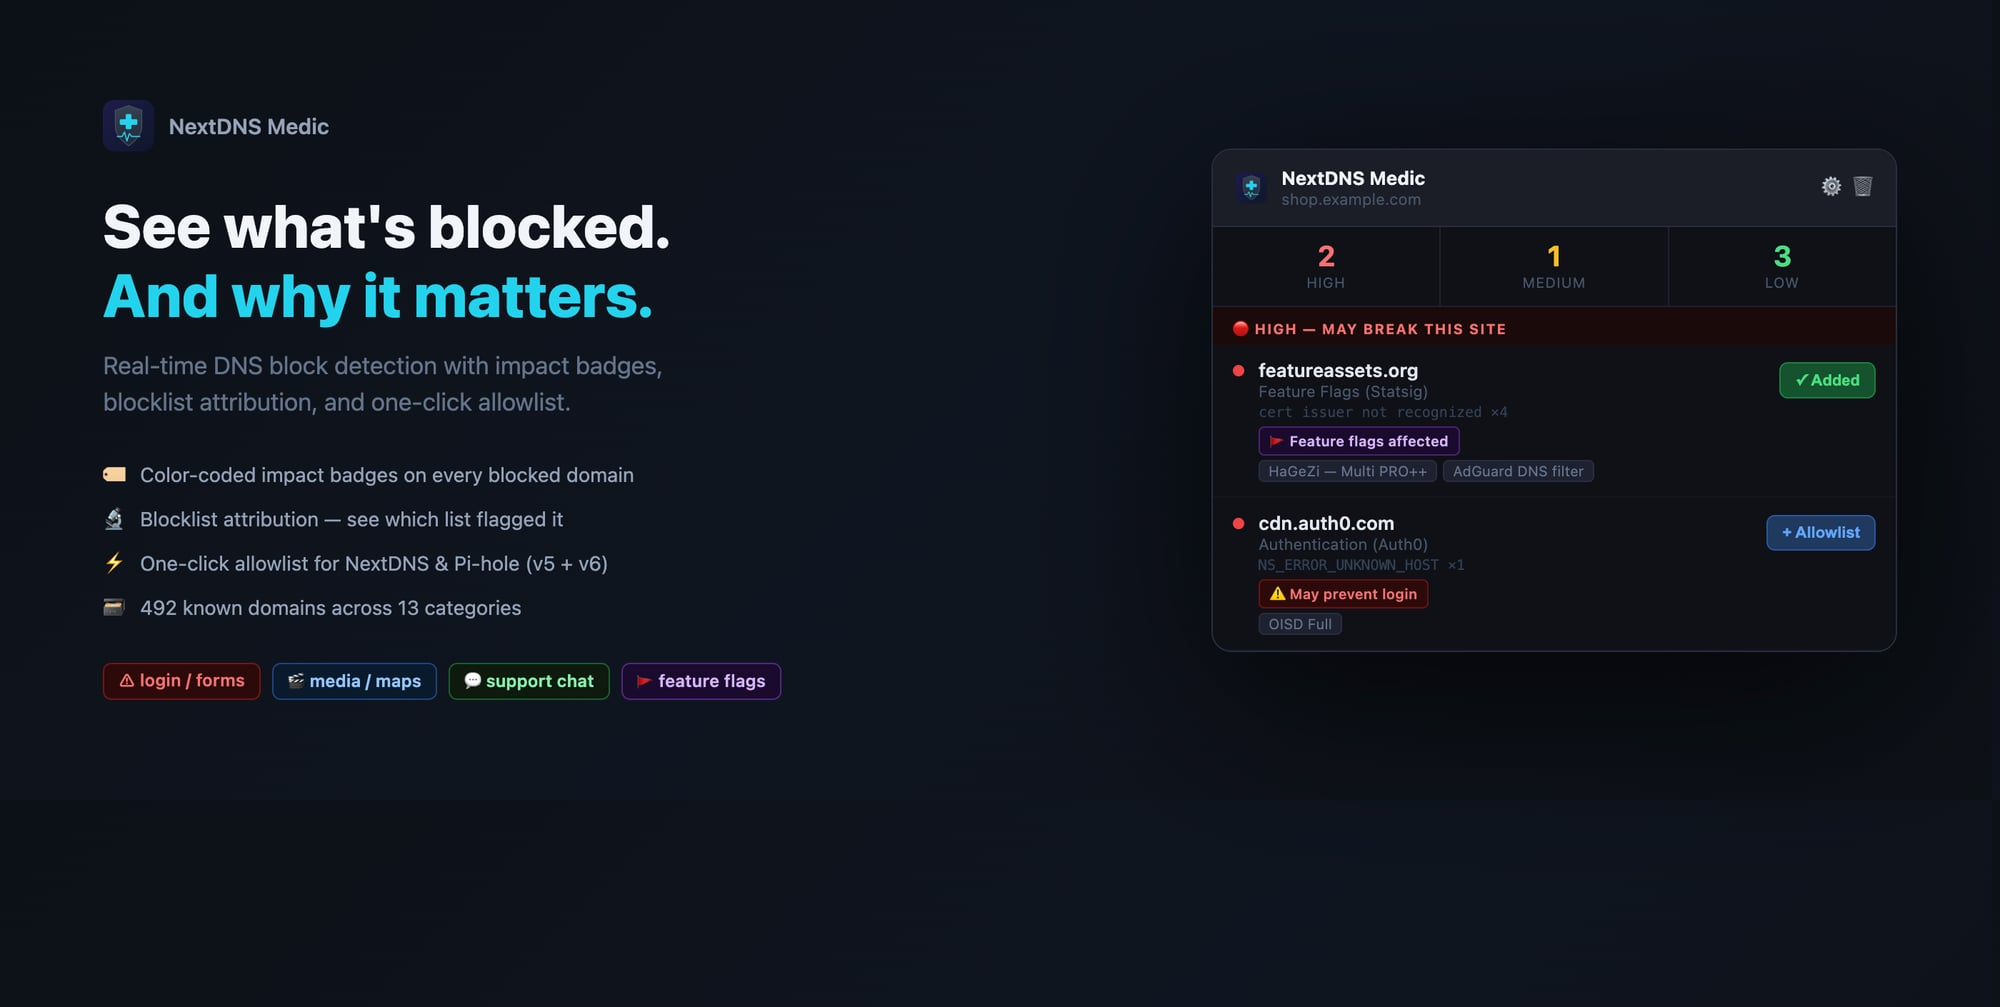
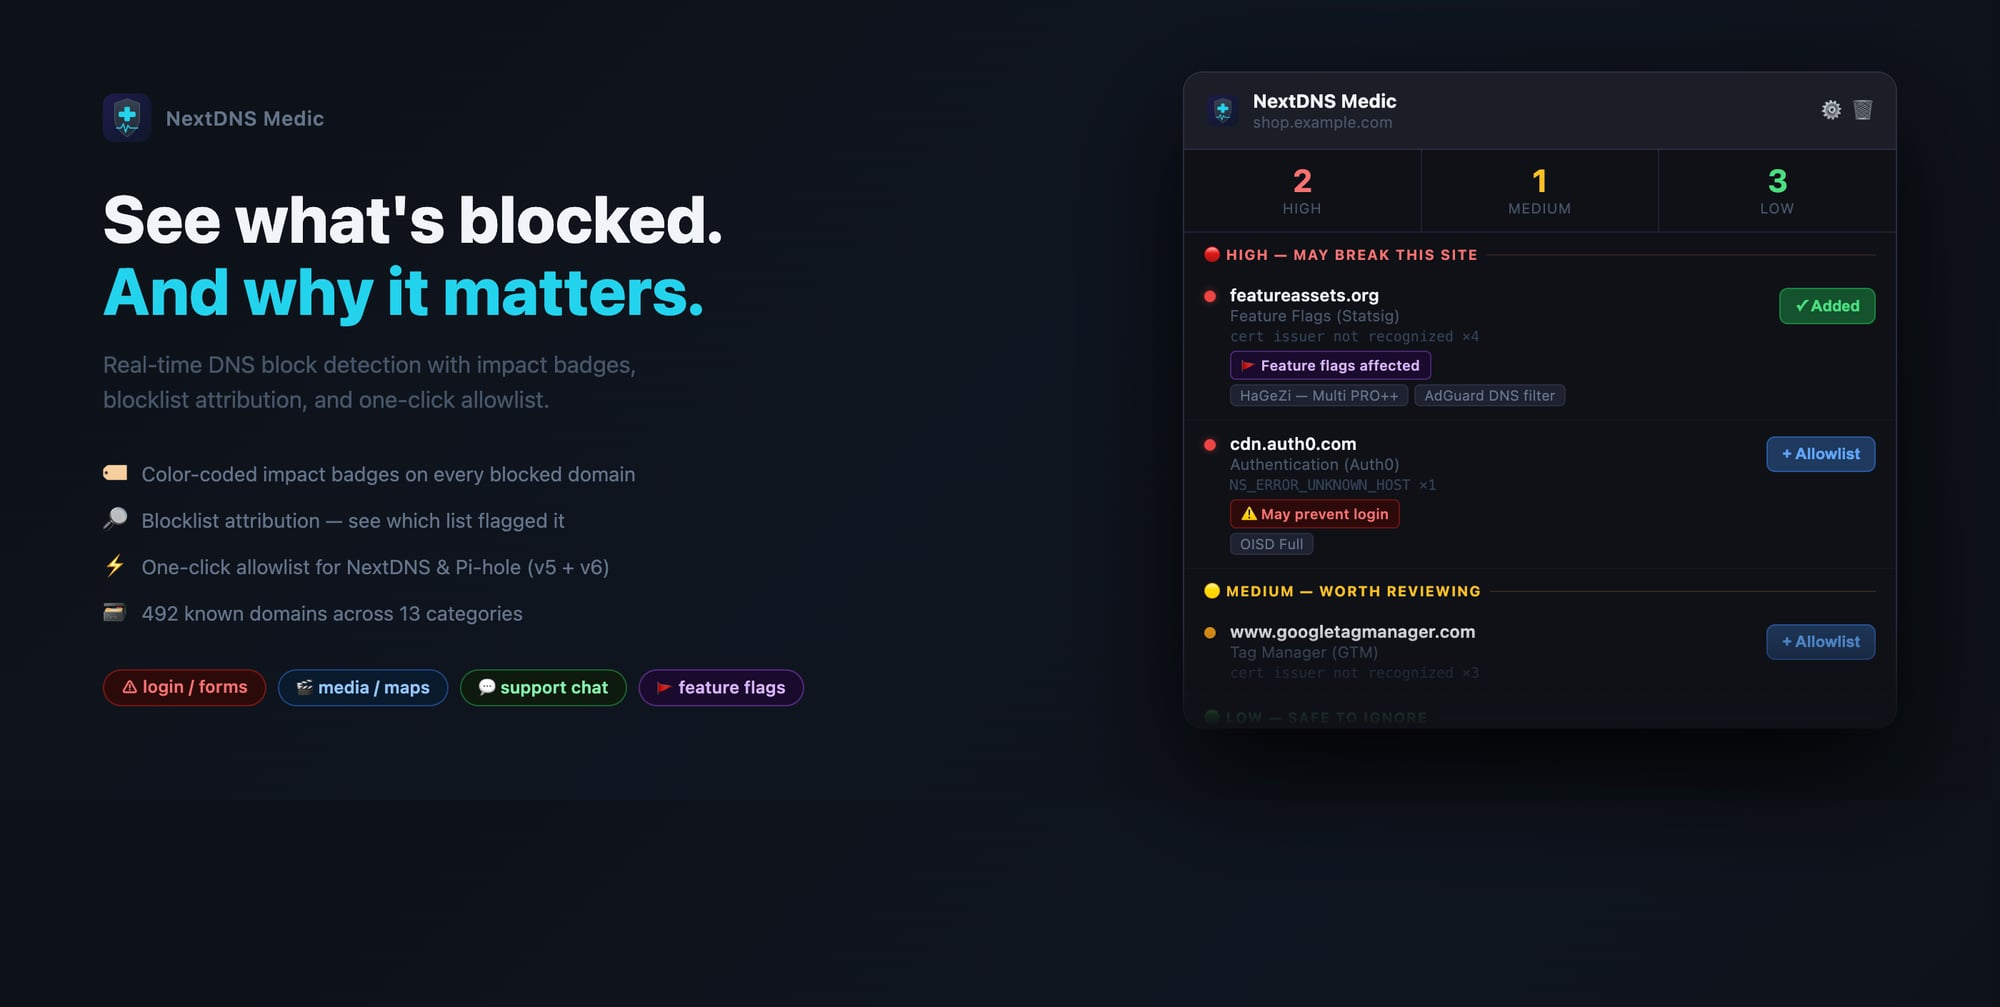
fix: marquee now fills full canvas height — popup with 4 rows + fade overlay

diff --git a/store/marquee-render.html b/store/marquee-render.html
@@ -1,5 +1,5 @@
 <!DOCTYPE html>
-<html>
+<html lang="en">
 <head>
 <meta charset="UTF-8">
 <style>
@@ -13,185 +13,182 @@ body {
   overflow:hidden;
 }
 
-/* Left — copy */
-.left {
-  flex: 0 0 520px;
-  display: flex;
-  flex-direction: column;
-  gap: 0;
-}
-.brand {
-  display:flex; align-items:center; gap:10px;
-  margin-bottom: 28px;
-}
-.brand img { width:36px; height:36px; border-radius:8px; }
-.brand-name { font-size:15px; font-weight:600; color:#94a3b8; }
-
-.headline { font-size:42px; font-weight:800; line-height:1.15; color:#f1f5f9; margin-bottom:12px; }
+/* ── Left ── */
+.left { flex:0 0 540px; display:flex; flex-direction:column; gap:0; }
+.brand { display:flex; align-items:center; gap:10px; margin-bottom:28px; }
+.brand img { width:34px; height:34px; border-radius:8px; }
+.brand-name { font-size:14px; font-weight:600; color:#64748b; letter-spacing:.03em; }
+.headline { font-size:46px; font-weight:800; line-height:1.1; color:#f1f5f9; margin-bottom:14px; }
 .headline em { font-style:normal; color:#22d3ee; }
-.subline { font-size:17px; color:#64748b; line-height:1.5; margin-bottom:28px; }
+.subline { font-size:16px; color:#475569; line-height:1.55; margin-bottom:28px; }
+.features { display:flex; flex-direction:column; gap:10px; margin-bottom:28px; }
+.fi { display:flex; align-items:center; gap:10px; font-size:14px; color:#64748b; }
+.fi-icon { font-size:17px; flex-shrink:0; }
+.badges { display:flex; flex-wrap:wrap; gap:8px; }
+.badge { font-size:12px; font-weight:600; padding:4px 12px; border-radius:20px; }
+.b-red    { background:#2d0a0a; border:1px solid #dc262666; color:#f87171; }
+.b-blue   { background:#0a1a2d; border:1px solid #3b82f666; color:#93c5fd; }
+.b-green  { background:#0d1a0d; border:1px solid #22c55e66; color:#86efac; }
+.b-purple { background:#1a0a2d; border:1px solid #a855f766; color:#d8b4fe; }
 
-.feature-list {
-  display:flex; flex-direction:column; gap:10px;
-  margin-bottom:28px;
-}
-.feature-item {
-  display:flex; align-items:center; gap:10px;
-  font-size:14px; color:#94a3b8;
-}
-.feature-icon { font-size:16px; flex-shrink:0; }
-
-.badge-row {
-  display:flex; flex-wrap:wrap; gap:8px;
-}
-.badge {
-  font-size:12px; font-weight:600;
-  padding: 4px 10px; border-radius:6px;
-}
-.badge-red    { background:#2d0a0a; border:1px solid #dc262666; color:#f87171; }
-.badge-blue   { background:#0a1a2d; border:1px solid #3b82f666; color:#93c5fd; }
-.badge-green  { background:#0d1a0d; border:1px solid #22c55e66; color:#86efac; }
-.badge-purple { background:#1a0a2d; border:1px solid #a855f766; color:#d8b4fe; }
-
-/* Right — popup mock */
-.popup-wrap {
-  flex: 0 0 480px;
-  filter: drop-shadow(0 32px 64px rgba(0,0,0,0.8));
+/* ── Right popup ── */
+.right {
+  flex:0 0 500px;
+  height:460px;
+  position:relative;
+  border-radius:14px;
+  box-shadow: 0 32px 80px rgba(0,0,0,0.9);
+  overflow:hidden;
 }
 .popup {
   background:#0f1117;
-  border-radius:14px;
   border:1px solid #2a2d3e;
-  overflow:hidden;
-  font-size:13px;
+  border-radius:14px;
   color:#e2e8f0;
+  font-size:13px;
+  height:100%;
+  overflow:hidden;
 }
-.popup-header {
+.ph {
   background:#1a1d27;
   padding:12px 16px;
   display:flex; align-items:center; justify-content:space-between;
   border-bottom:1px solid #2a2d3e;
+  flex-shrink:0;
 }
-.popup-header-left { display:flex; align-items:center; gap:10px; }
-.popup-header img { width:22px; height:22px; border-radius:5px; }
-.popup-title { font-size:13px; font-weight:700; color:#f1f5f9; }
-.popup-sub   { font-size:11px; color:#475569; margin-top:1px; }
-.popup-icons { font-size:14px; color:#475569; display:flex; gap:8px; }
+.ph-left { display:flex; align-items:center; gap:10px; }
+.ph img  { width:22px; height:22px; border-radius:5px; }
+.ph-title { font-size:13px; font-weight:700; color:#f1f5f9; }
+.ph-sub   { font-size:11px; color:#475569; margin-top:1px; }
+.ph-icons { font-size:14px; color:#475569; display:flex; gap:8px; }
 
-.stats {
-  display:flex; border-bottom:1px solid #1e2130;
-}
+.stats { display:flex; border-bottom:1px solid #1e2130; flex-shrink:0; }
 .stat { flex:1; padding:10px 0; text-align:center; }
 .stat:not(:last-child) { border-right:1px solid #1e2130; }
-.stat-num { font-size:20px; font-weight:700; display:block; line-height:1; }
-.stat-label { font-size:10px; color:#475569; text-transform:uppercase; letter-spacing:.05em; }
+.sn { font-size:22px; font-weight:700; display:block; line-height:1; }
+.sl { font-size:10px; color:#475569; text-transform:uppercase; letter-spacing:.05em; }
 
-.section-hdr {
+.shdr {
   font-size:10px; font-weight:700; letter-spacing:.08em;
-  text-transform:uppercase; padding:8px 14px 4px;
+  text-transform:uppercase; padding:8px 14px 5px;
+  display:flex; align-items:center; gap:6px;
+  flex-shrink:0;
 }
-.section-hdr.high { color:#f87171; background:#1a0a0a; }
+.shdr::after { content:""; flex:1; height:1px; background:currentColor; opacity:.15; }
+.shdr.high { color:#f87171; } .shdr.med { color:#fbbf24; } .shdr.low { color:#4ade80; }
 
-.block {
+.brow {
   display:flex; align-items:flex-start; gap:10px;
-  padding:10px 14px;
+  padding:9px 14px;
   border-bottom:1px solid #13161f;
+  flex-shrink:0;
 }
 .dot { width:8px; height:8px; border-radius:50%; flex-shrink:0; margin-top:4px; }
-.dot.high { background:#ef4444; }
-.binfo { flex:1; min-width:0; }
-.bdomain { font-size:13px; font-weight:600; color:#e2e8f0; }
-.blabel  { font-size:11px; color:#475569; margin-top:1px; }
-.bmeta   { font-size:10px; color:#334155; margin-top:2px; font-family:monospace; }
-.impact  { display:inline-block; font-size:10px; font-weight:600; padding:2px 7px; border-radius:4px; margin-top:4px; }
-.impact.purple { background:#1a0a2d; border:1px solid #a855f755; color:#d8b4fe; }
-.impact.red    { background:#2d0a0a; border:1px solid #dc262655; color:#f87171; }
-.blocklist-tags { display:flex; gap:4px; flex-wrap:wrap; margin-top:3px; }
-.bl-tag { font-size:10px; color:#64748b; background:#1e2130; border:1px solid #2a2d3e; border-radius:4px; padding:1px 6px; }
-.allow-btn {
-  font-size:11px; font-weight:600; padding:5px 10px;
-  background:#1e3a5f; border:1px solid #3b82f666; border-radius:6px; color:#60a5fa;
-  white-space:nowrap; flex-shrink:0; margin-top:2px;
-}
-.allow-btn.success {
-  background:#14532d; border-color:#22c55e66; color:#4ade80;
+.dot.H { background:#ef4444; box-shadow:0 0 5px #ef444488; }
+.dot.M { background:#f59e0b; }
+.dot.L { background:#4ade80; }
+.bi { flex:1; min-width:0; }
+.bd { font-size:12px; font-weight:600; color:#f1f5f9; }
+.bl { font-size:11px; color:#475569; margin-top:1px; }
+.bm { font-size:10px; color:#334155; margin-top:2px; font-family:monospace; }
+.ib { display:inline-block; font-size:10px; font-weight:600; padding:2px 7px; border-radius:4px; margin-top:4px; }
+.ib-p { background:#1a0a2d; border:1px solid #a855f755; color:#d8b4fe; }
+.ib-r { background:#2d0a0a; border:1px solid #dc262655; color:#f87171; }
+.bt { display:flex; gap:4px; flex-wrap:wrap; margin-top:3px; }
+.btag { font-size:10px; color:#64748b; background:#1e2130; border:1px solid #2a2d3e; border-radius:4px; padding:1px 6px; }
+.abtn { font-size:11px; font-weight:600; padding:5px 10px; background:#1e3a5f; border:1px solid #3b82f666; border-radius:6px; color:#60a5fa; white-space:nowrap; flex-shrink:0; margin-top:2px; }
+.abtn.ok { background:#14532d; border-color:#22c55e66; color:#4ade80; }
+
+.fade {
+  position:absolute; bottom:0; left:0; right:0; height:80px;
+  background:linear-gradient(transparent, #0f1117);
+  pointer-events:none;
 }
 </style>
 </head>
 <body>
-
 <div class="left">
   <div class="brand">
[1 lines of base64/hex data omitted]
-    <span class="brand-name">NextDNS Medic</span>
+    <img src="{}" /><span class="brand-name">NextDNS Medic</span>
   </div>
-
   <div class="headline">See what's blocked.<br><em>And why it matters.</em></div>
   <div class="subline">Real-time DNS block detection with impact badges,<br>blocklist attribution, and one-click allowlist.</div>
-
-  <div class="feature-list">
-    <div class="feature-item"><span class="feature-icon">🏷</span> Color-coded impact badges on every blocked domain</div>
-    <div class="feature-item"><span class="feature-icon">🔬</span> Blocklist attribution — see which list flagged it</div>
-    <div class="feature-item"><span class="feature-icon">⚡</span> One-click allowlist for NextDNS &amp; Pi-hole (v5 + v6)</div>
-    <div class="feature-item"><span class="feature-icon">🗃</span> 492 known domains across 13 categories</div>
+  <div class="features">
+    <div class="fi"><span class="fi-icon">&#127991;&#65039;</span>Color-coded impact badges on every blocked domain</div>
+    <div class="fi"><span class="fi-icon">&#128270;</span>Blocklist attribution &mdash; see which list flagged it</div>
+    <div class="fi"><span class="fi-icon">&#9889;</span>One-click allowlist for NextDNS &amp; Pi-hole (v5 + v6)</div>
+    <div class="fi"><span class="fi-icon">&#128451;&#65039;</span>492 known domains across 13 categories</div>
   </div>
-
-  <div class="badge-row">
-    <span class="badge badge-red">⚠ login / forms</span>
-    <span class="badge badge-blue">🎬 media / maps</span>
-    <span class="badge badge-green">💬 support chat</span>
-    <span class="badge badge-purple">🚩 feature flags</span>
+  <div class="badges">
+    <span class="badge b-red">&#9888; login / forms</span>
+    <span class="badge b-blue">&#127916; media / maps</span>
+    <span class="badge b-green">&#128172; support chat</span>
+    <span class="badge b-purple">&#128681; feature flags</span>
   </div>
 </div>
 
-<div class="popup-wrap">
+<div class="right">
   <div class="popup">
-    <div class="popup-header">
-      <div class="popup-header-left">
[1 lines of base64/hex data omitted]
-        <div><div class="popup-title">NextDNS Medic</div><div class="popup-sub">shop.example.com</div></div>
-      </div>
-      <div class="popup-icons"><span>⚙</span><span>🗑</span></div>
+    <div class="ph">
+      <div class="ph-left"><img id="icon" /><div><div class="ph-title">NextDNS Medic</div><div class="ph-sub">shop.example.com</div></div></div>
+      <div class="ph-icons"><span>&#9881;&#65039;</span><span>&#128465;&#65039;</span></div>
     </div>
-
     <div class="stats">
-      <div class="stat"><span class="stat-num" style="color:#f87171">2</span><span class="stat-label">High</span></div>
-      <div class="stat"><span class="stat-num" style="color:#fbbf24">1</span><span class="stat-label">Medium</span></div>
-      <div class="stat"><span class="stat-num" style="color:#4ade80">3</span><span class="stat-label">Low</span></div>
+      <div class="stat"><span class="sn" style="color:#f87171">2</span><span class="sl">High</span></div>
+      <div class="stat"><span class="sn" style="color:#fbbf24">1</span><span class="sl">Medium</span></div>
+      <div class="stat"><span class="sn" style="color:#4ade80">3</span><span class="sl">Low</span></div>
     </div>
-
-    <div class="section-hdr high">🔴 High — May break this site</div>
-
-    <div class="block">
-      <div class="dot high"></div>
-      <div class="binfo">
-        <div class="bdomain">featureassets.org</div>
-        <div class="blabel">Feature Flags (Statsig)</div>
-        <div class="bmeta">cert issuer not recognized ×4</div>
-        <span class="impact purple">🚩 Feature flags affected</span>
-        <div class="blocklist-tags">
-          <span class="bl-tag">HaGeZi — Multi PRO++</span>
-          <span class="bl-tag">AdGuard DNS filter</span>
-        </div>
+    <div class="shdr high">&#128308; High &mdash; May break this site</div>
+    <div class="brow">
+      <div class="dot H"></div>
+      <div class="bi">
+        <div class="bd">featureassets.org</div>
+        <div class="bl">Feature Flags (Statsig)</div>
+        <div class="bm">cert issuer not recognized &times;4</div>
+        <span class="ib ib-p">&#128681; Feature flags affected</span>
+        <div class="bt"><span class="btag">HaGeZi &mdash; Multi PRO++</span><span class="btag">AdGuard DNS filter</span></div>
       </div>
-      <button class="allow-btn success">✓ Added</button>
+      <button class="abtn ok">&#10003; Added</button>
     </div>
-
-    <div class="block">
-      <div class="dot high"></div>
-      <div class="binfo">
-        <div class="bdomain">cdn.auth0.com</div>
-        <div class="blabel">Authentication (Auth0)</div>
-        <div class="bmeta">NS_ERROR_UNKNOWN_HOST ×1</div>
-        <span class="impact red">⚠ May prevent login</span>
-        <div class="blocklist-tags">
-          <span class="bl-tag">OISD Full</span>
-        </div>
+    <div class="brow">
+      <div class="dot H"></div>
+      <div class="bi">
+        <div class="bd">cdn.auth0.com</div>
+        <div class="bl">Authentication (Auth0)</div>
+        <div class="bm">NS_ERROR_UNKNOWN_HOST &times;1</div>
+        <span class="ib ib-r">&#9888;&#65039; May prevent login</span>
+        <div class="bt"><span class="btag">OISD Full</span></div>
       </div>
-      <button class="allow-btn">+ Allowlist</button>
+      <button class="abtn">+ Allowlist</button>
+    </div>
+    <div class="shdr med">&#128993; Medium &mdash; Worth reviewing</div>
+    <div class="brow">
+      <div class="dot M"></div>
+      <div class="bi">
+        <div class="bd">www.googletagmanager.com</div>
+        <div class="bl">Tag Manager (GTM)</div>
+        <div class="bm">cert issuer not recognized &times;3</div>
+      </div>
+      <button class="abtn">+ Allowlist</button>
+    </div>
+    <div class="shdr low">&#128994; Low &mdash; Safe to ignore</div>
+    <div class="brow">
+      <div class="dot L"></div>
+      <div class="bi">
+        <div class="bd">www.google-analytics.com</div>
+        <div class="bl">Analytics (Google Analytics)</div>
+        <div class="bm">NS_ERROR_UNKNOWN_HOST &times;6</div>
+      </div>
+      <button class="abtn">+ Allowlist</button>
     </div>
   </div>
+  <div class="fade"></div>
 </div>
 
+<script>
[2 lines of base64/hex data omitted]
+</script>
 </body>
 </html>
[1 lines of base64/hex data omitted]
